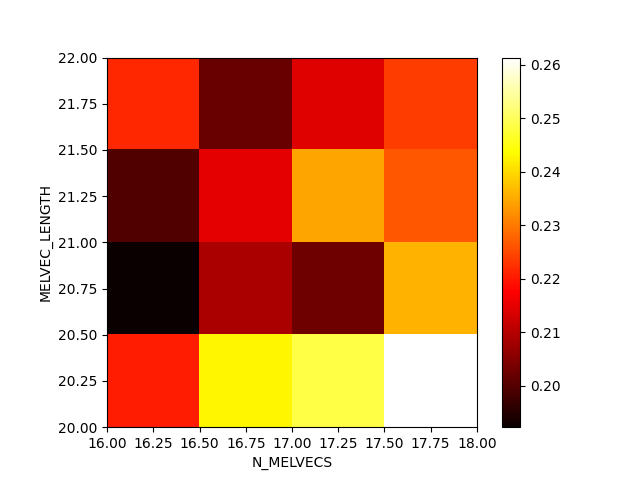
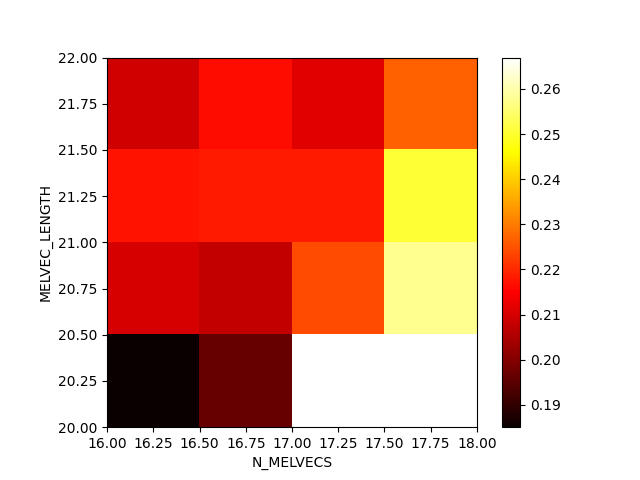
Enlever l'ajout du bruit de fond

diff --git a/classification/hyperparameters_tests.py b/classification/hyperparameters_tests.py
@@ -150,7 +150,7 @@ def audio_signal_troncated(signal, i_melvec_length, j_n_melvecs, Nft=512, fs_dow
     a_spec = []
     size_a = len(signal)
     cropped_a_spec = signal[
-                     :size_a - size_a % Nft * i_melvec_length]  # Tronquer le signal pour qu'il soit un multiple de 512*20
+                     :size_a - size_a % (Nft * i_melvec_length)]  # Tronquer le signal pour qu'il soit un multiple de 512*20
     for m in range(0, len(cropped_a_spec), Nft * i_melvec_length):
         a_spec.append(cropped_a_spec[m:m + Nft * i_melvec_length])
 
@@ -167,17 +167,16 @@ def add_lol_effects_and_specgram(signal, i_melvec_length, j_n_melvecs, Nft=512, 
     n_echo = np.random.randint(1, 3)
     echo_sig[(np.arange(1) / 1 * 512 * j_n_melvecs).astype(int)] = (1 / 2) ** np.arange(1) #TODO : vérifier que c'est bien j_n_melvecs et pas i_melvec_length
 
-    # print("len array avant convolve", len(array))
+
     array = fftconvolve(array, echo_sig, mode="full")
     "Tronquer le signal car il est plus long après la convolution"
-    # print("len array après convolve", len(array))
     array = array[:512 * i_melvec_length] #TODO : vérifier que c'est bien j_n_melvecs et pas i_melvec_length
-    # print("len array après troncage", len(array))
-    array = array + np.random.normal(0, np.random.uniform(0.05, 0.7), len(array))  # noise
-    sound_to_add = data1_list[np.random.randint(0, len(data1_list))].astype(np.float32)
-    sound_to_add = sound_to_add - np.mean(sound_to_add)
-    # print("len sound_to_add", len(sound_to_add))
-    array = array + sound_to_add * np.random.uniform(0, 0.7) / np.max(sound_to_add) * np.max(array)
+
+    # "Background"
+    # array = array + np.random.normal(0, np.random.uniform(0.05, 0.7), len(array))  # noise
+    # sound_to_add = data1_list[np.random.randint(0, len(data1_list))].astype(np.float32) # TODO : attention ce n'est pas data1_list !!
+    # sound_to_add = sound_to_add - np.mean(sound_to_add)
+    #array = array + sound_to_add * np.random.uniform(0, 0.7) / np.max(sound_to_add) * np.max(array)*
 
     x = array - np.mean(array)  # Moyenne quasi nulle donc ligne superflue
     x = x / np.linalg.norm(x)
@@ -294,26 +293,31 @@ for i in MELVEC_LENGTH_arange:
         sub_size = len(a_spec[0])
         if len(a_spec[-1]) != sub_size:
             a_spec.pop(-1)
+            print("Troncature de a_spec")
 
         sub_size = len(b_spec[0])
         if len(b_spec[-1]) != sub_size:
             b_spec.pop(-1)
+            print("Troncature de b_spec")
 
         sub_size = len(c_spec[0])
         if len(c_spec[-1]) != sub_size:
             c_spec.pop(-1)
+            print("Troncature de c_spec")
 
         sub_size = len(d_spec[0])
         if len(d_spec[-1]) != sub_size:
             d_spec.pop(-1)
+            print("Troncature de d_spec")
 
         sub_size = len(e_spec[0])
         if len(e_spec[-1]) != sub_size:
             e_spec.pop(-1)
+            print("Troncature de e_spec")
 
         data1_list = np.concatenate((a_spec, b_spec, c_spec, d_spec, e_spec))
 
-        # print("len data1_list", len(data1_list))
+        print("len data1_list", len(data1_list))
 
         "Création de data2_list avec tous les labels"
         data2_list = []
@@ -321,6 +325,22 @@ for i in MELVEC_LENGTH_arange:
         for label in range(0, 5):
             data2_list = np.concatenate((data2_list, [labels[label] for _ in range(len(a_spec))]), axis=0)
             # en partant du principe que len(a_spec_reshaped) = len(b_spec_reshaped) = len(c_spec_reshaped) = len(d_spec_reshaped) = len(e_spec_reshaped)
+
+        if len(data1_list) != len(data2_list):
+            raise ValueError("Tailles des signaux et des étiquettes différentes")
+
+        # Vérifier que les étiquettes sont ok (elles ont l'air de l'être)
+        for p in range(int(len(data2_list) / 5)):
+            if data2_list[p] != "birds":
+                raise ValueError("Pas le bon nombre de birds")
+            if data2_list[p + int(len(data2_list) / 5)] != "fire":
+                raise ValueError("Pas le bon nombre de fire")
+            if data2_list[p + 2 * int(len(data2_list) / 5)] != "handsaw":
+                raise ValueError("Pas le bon nombre de handsaw")
+            if data2_list[p + 3 * int(len(data2_list) / 5)] != "chainsaw":
+                raise ValueError("Pas le bon nombre de chainsaw")
+            if data2_list[p + 4 * int(len(data2_list) / 5)] != "helicopter":
+                raise ValueError("Pas le bon nombre de helicopter")
 
         # print("Data2_list longeur", len(data2_list))
         # print("Longueur de tous les spectrogrammes : ", len(data1_list))
@@ -335,7 +355,7 @@ for i in MELVEC_LENGTH_arange:
         temp_acc_split = [] # une accuracy par split
         n_splits = 1
         for _ in range(n_splits):
-            X_train, X_test, y_train, y_test = train_test_split(data1_list, data2_list, test_size=0.3)
+            X_train, X_test, y_train, y_test = train_test_split(data1_list, data2_list, stratify=data2_list, test_size=0.3)
             # print("Taille de X_test et de y_test : ", len(X_test), len(y_test))
             # print("Taille de X_train et de y_train : ", len(X_train), len(y_train))
             X_val_spec = []
